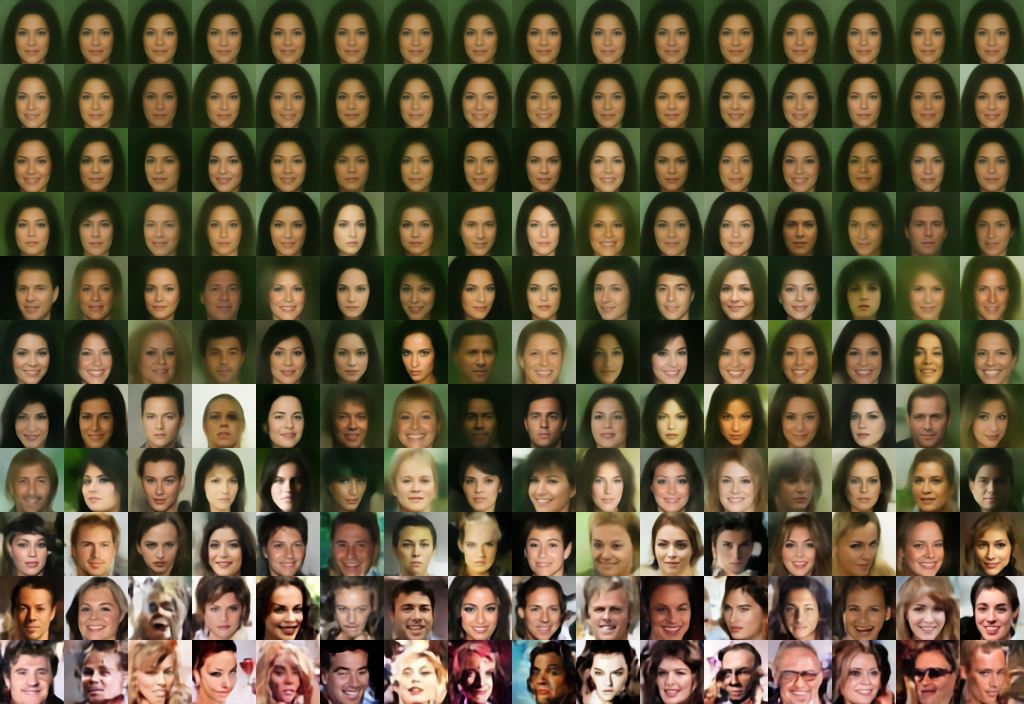
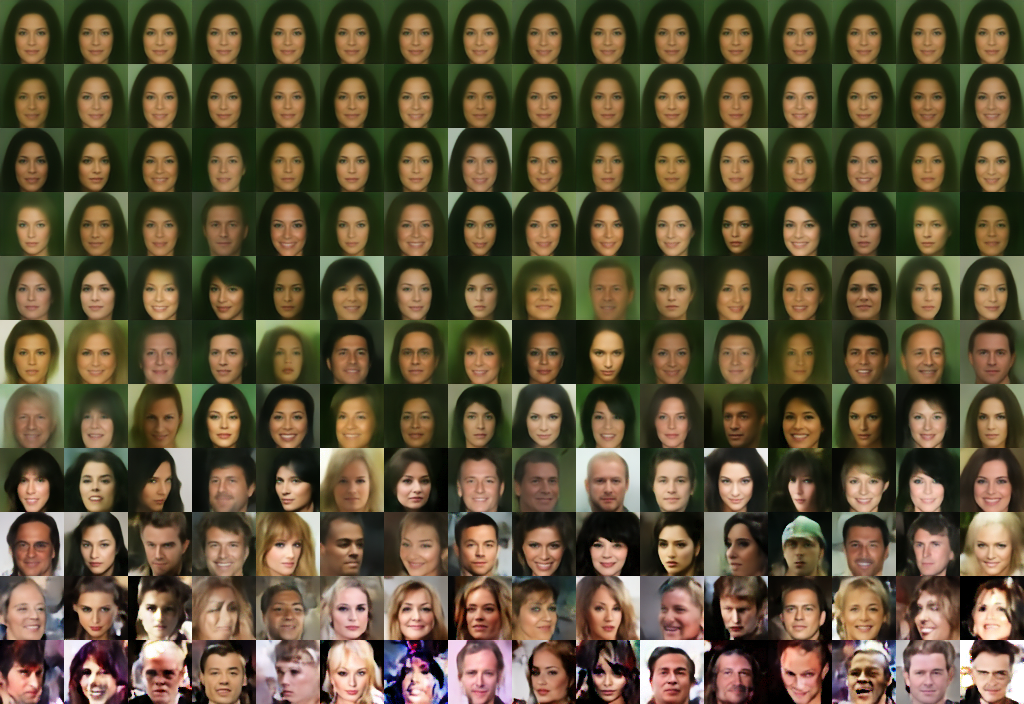
tune: maybe better sampling strategy

diff --git a/vae/architecture/prediction.py b/vae/architecture/prediction.py
@@ -57,7 +57,14 @@ class PredictionBatch(BaseModel):
         distribution = module.MixtureLogistic(
             self.logits[index], self.loc[index], self.scale[index]
         )
-        return Prediction(predicted_image=distribution.mean)
+        samples = distribution.sample((5,))
+        indices = distribution.log_prob(samples).argmax(dim=0)
+        most_likely_sample = (
+            samples.flatten(start_dim=1)
+            [indices.flatten(), torch.arange(indices.numel())]
+            .view(*samples.shape[1:])
+        )
+        return Prediction(predicted_image=most_likely_sample)
 
     def __iter__(self):
         for index in range(len(self)):
